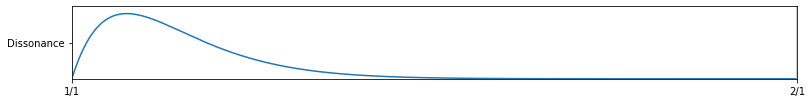
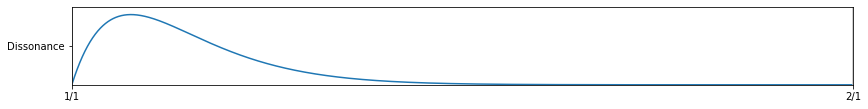
resize

Changed region(s): [[0.0, 0.0583, 0.9852, 0.8155], [0.9544, 0.8447, 1.0, 0.932], [0.0616, 0.8447, 0.0924, 0.932]]

diff --git a/_posts/2022-05-13-Musical-Tuning.md b/_posts/2022-05-13-Musical-Tuning.md
@@ -16,7 +16,7 @@ import tuning as tuning
 import tuningplot as tuningplot
 %matplotlib inline
 
-plot = tuningplot.TuningPlot('h', 16)
+plot = tuningplot.TuningPlot('h', 14)
 plot.plotDissonance([1], 1)
 plot.plotRatios([(1, 1), (2, 1)])
 plot.plot()
@@ -38,7 +38,7 @@ For instance the following curve is plotted from a sound with the first 6 harmon
 
 
 ```python
-plot = tuningplot.TuningPlot('h', 16)
+plot = tuningplot.TuningPlot('h', 14)
 plot.plotDissonance([1, 2, 3, 4, 5, 6])
 plot.plotRatios([(1, 1), (2, 1), (3, 2), (4, 3), (5, 3), (5, 4), (6, 5)])
 plot.plot()
@@ -56,7 +56,7 @@ This is how the curve changes when more partials are added:
 
 
 ```python
-plot = tuningplot.TuningPlot('h', 16)
+plot = tuningplot.TuningPlot('h', 14)
 plot.plotDissonance([1, 2, 3, 4, 5, 6, 7, 8, 9], 5.5)
 plot.plotRatios([(1, 1), (2, 1), (3, 2), (4, 3), (5, 3), (5, 4), (6, 5), (7, 4), (7, 5), (7, 6), (8,5), (8,7), (9, 5), (9, 7), (9, 8)])
 plot.plot()
@@ -76,7 +76,7 @@ The following graph shows these 12 intervals against the dissonance curve:
 ```python
 tuning_12edo = tuning.createEqualDivisionTuning("12edo", 12, 1, ['0 C','1 C#','2 D','3 D#','4 E','5 F','6 F#','7 G','8 G#','9 A','10 A#','11 B'])
 
-plot = tuningplot.TuningPlot('h', 16)
+plot = tuningplot.TuningPlot('h', 14)
 plot.plotRatios([(1, 1), (2, 1), (3, 2), (4, 3), (5, 3), (5, 4), (6, 5), (7, 4), (7, 5), (8,5), (9, 8), (9, 5)])
 plot.plotDissonance([1, 2, 3, 4, 5, 6, 7, 8, 9], 5.5)
 plot.plotTuning(tuning_12edo)
@@ -99,7 +99,7 @@ The graph below shows a scale with 19 equal divisions.
 ```python
 tuning_19edo = tuning.createEqualDivisionTuning("19edo", 19, 1)
 
-plot = tuningplot.TuningPlot('h', 16)
+plot = tuningplot.TuningPlot('h', 14)
 plot.plotRatios([(1, 1), (2, 1), (3, 2), (4, 3), (5, 3), (5, 4), (6, 5), (7, 4), (7, 5), (7, 6), (8,5), (9, 8), (9, 7), (9, 5)])
 plot.plotDissonance([1, 2, 3, 4, 5, 6, 7, 8, 9], 5.5)
 plot.plotTuning(tuning_12edo)
@@ -150,7 +150,7 @@ tuning_just17limit.addIntervalRatio(7/5, "7:5")
 tuning_just17limit.addIntervalRatio(8/5, "8:5")
 tuning_just17limit.addIntervalRatio(7/4, "7:4")
 
-plot = tuningplot.TuningPlot('h', 16)
+plot = tuningplot.TuningPlot('h', 14)
 plot.plotDissonance([1, 2, 3, 4, 5, 6, 7, 8, 9], 5.5)
 plot.plotTuning(tuning_just17limit)
 plot.plotTuning(tuning_justdiatonic)
@@ -170,7 +170,7 @@ For a sound with only odd harmonics, such as a square wave, the dissonance curve
 
 
 ```python
-plot = tuningplot.TuningPlot('h', 16, 1.6)
+plot = tuningplot.TuningPlot('h', 14, 1.6)
 plot.plotDissonance([1, 3, 5, 7, 9, 11, 13], 3.3)
 plot.plotRatios([(1, 1), (2, 1), (3, 1), (5, 3), (7, 5), (7, 3), (9,5), (9,7), (11,7), (11,9), (11,5), (13,7), (13,9), (13,11), (13,5)])
 plot.plot()
@@ -194,7 +194,7 @@ These intervals fit better with a 13 note equally divided tritave. This is the b
 ```python
 tuning_13edt = tuning.createEqualDivisionTuning("13edt", 13, 1.585)
 
-plot = tuningplot.TuningPlot('h', 16, 1.6)
+plot = tuningplot.TuningPlot('h', 14, 1.6)
 plot.plotDissonance([1, 3, 5, 7, 9, 11, 13], 3.3)
 plot.plotRatios([(1, 1), (2, 1), (3, 1), (5, 3), (7, 5), (7, 3), (9,5), (9,7), (11,7), (11,9), (11,5), (13,7), (13,9), (13,11), (13,5)])
 plot.plotTuning(tuning_13edt)
